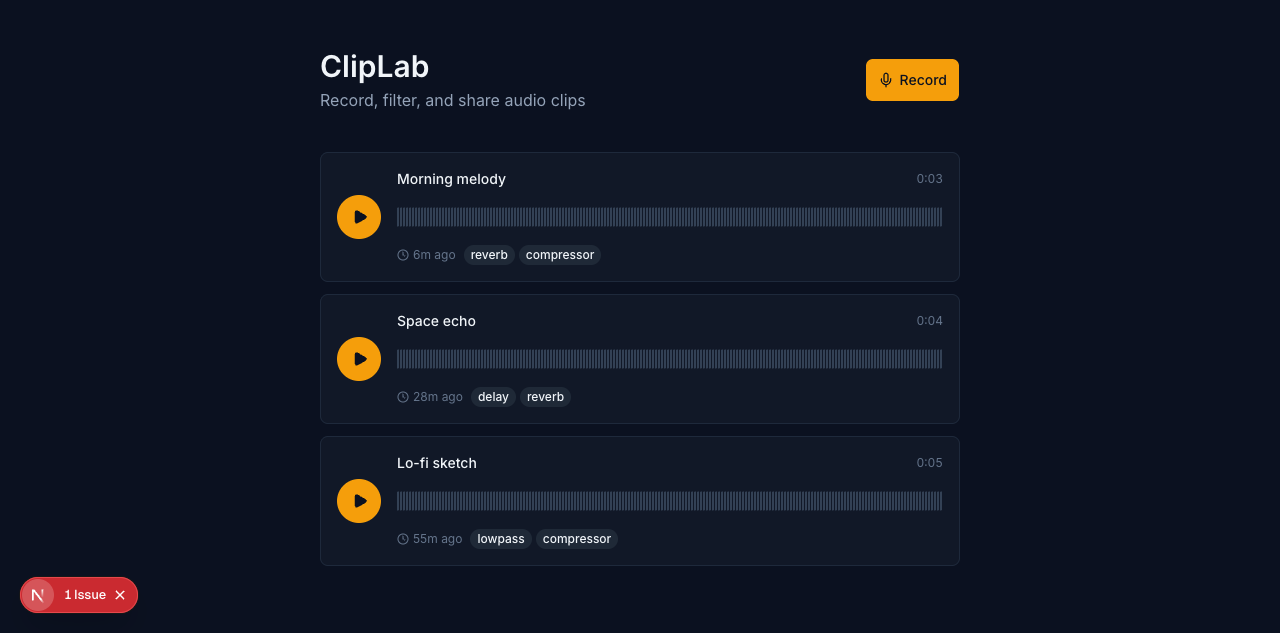
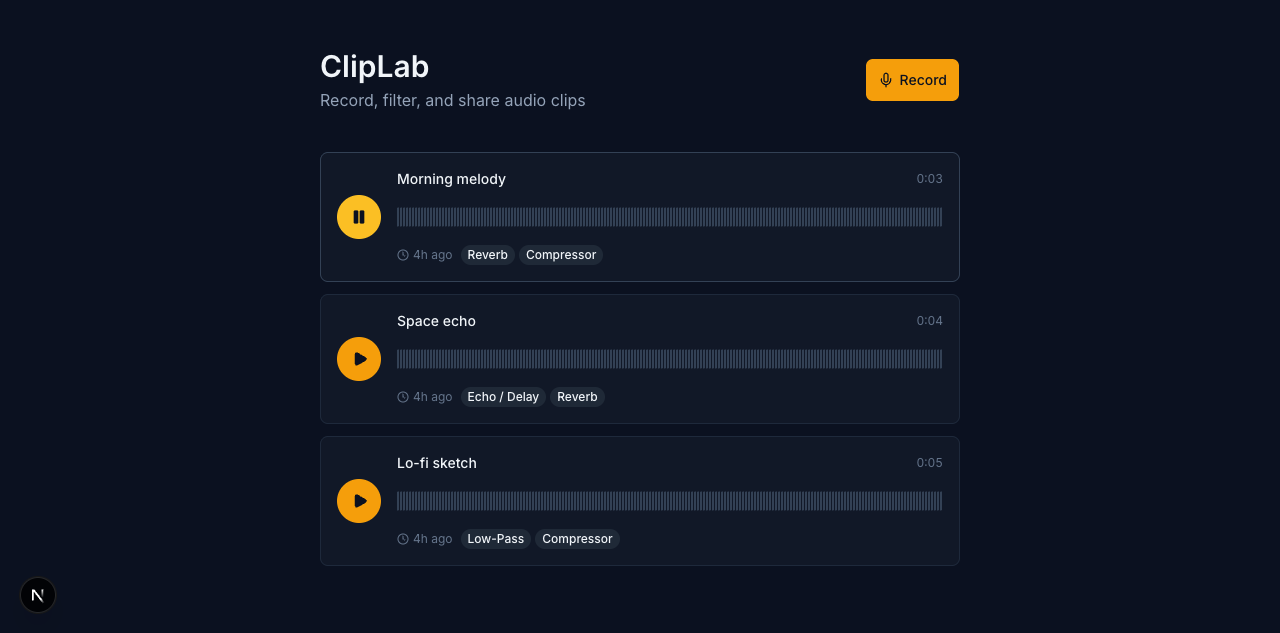
fix: plan.md legend + stretch status, retake screenshots without dev overlay
- Restore [ ] in plan.md legend (sed replaced it with [x])
- Stretch PRs S1/S2/S4/S5 marked [ ] (not done)
- All screenshots retaken without Next.js dev overlay
- Filter badges now show display names in screenshots (Reverb, not reverb)

diff --git a/plan.md b/plan.md
@@ -38,7 +38,7 @@ Every PR goes through 4 agent reviewers (Wei-Lin/arena, Alex/user, design, code-
 
 Each item below is a PR. Each PR is independently testable, shippable, and goes through agent review. Ordered by dependency.
 
-Status legend: `[x]` not started, `[~]` in progress, `[x]` done
+Status legend: `[ ]` not started, `[~]` in progress, `[x]` done
 
 ---
 
@@ -235,14 +235,14 @@ Test keyboard shortcuts (correct behavior, disabled in inputs). Test error state
 
 ## Stretch PRs (if ahead of schedule)
 
-### PR S1: Drag-to-scrub on waveform `[x]`
+### PR S1: Drag-to-scrub on waveform `[ ]`
 Pointer-drag seeking via `pointerdown` + `pointermove`. Audio plays at scrub position. Blocked by: PR 5.
 
-### PR S2: Signal chain visualization `[x]`
+### PR S2: Signal chain visualization `[ ]`
 `Input → [active filters] → Output` flow indicator, active lit amber. Above filter rack. Blocked by: PR 5.
 
-### PR S4: Pre-seeded demo clip `[x]`
+### PR S4: Pre-seeded demo clip `[ ]`
 Seed script generates WAV + applies delay, inserts into DB. `pnpm db:seed`. Blocked by: PR 7.
 
-### PR S5: Waveform amplitude glow `[x]`
+### PR S5: Waveform amplitude glow `[ ]`
 Canvas glow intensity scales w/ current amplitude. Brighter on peaks, dim on silence. Blocked by: PR 3.
